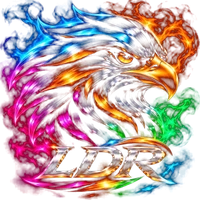
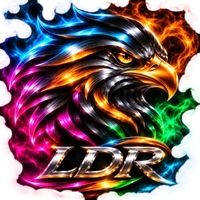
Aigles détourés : corps 100 % opaque, couleurs des fichiers d'origine ; manifest du site (écran d'ouverture sombre)
Claude-Session: https://claude.ai/code/session_01BaCEKBNoQAedFM9855Jhha

diff --git a/_collage/outils/detoure-aigles.py b/_collage/outils/detoure-aigles.py
@@ -1,0 +1,24 @@
+import sys, numpy as np
+from PIL import Image, ImageFilter, ImageDraw
+def _im(m): return Image.fromarray((m*255).astype(np.uint8))
+def detoure(im, T=42, r=7, feather=1.2):
+    """Fond noir enlevé, corps de l'aigle 100 % opaque (couleurs d'origine), lueurs en fondu."""
+    im=im.convert('RGB'); a=np.asarray(im).astype(np.float32)
+    v=a.max(axis=2); H,W=v.shape; s=W/560.0
+    bright=_im(v>T)
+    # fermeture arrondie : dilatation puis érosion par flou + seuil
+    d=_im(np.asarray(bright.filter(ImageFilter.GaussianBlur(r*s)))>0.10*255)
+    e=np.asarray(d.filter(ImageFilter.GaussianBlur(r*s)))>0.90*255
+    m=_im(e|(v>T))
+    # trous bouchés : on inonde l'extérieur depuis un bord noir de 1 px
+    pad=Image.new('L',(W+2,H+2),0); pad.paste(m,(1,1)); ImageDraw.floodfill(pad,(0,0),128)
+    body=np.asarray(pad)[1:-1,1:-1]!=128
+    # on ne garde que le grand morceau (l'aigle) ; les petites flammes isolées restent en lueur
+    ys,xs=np.nonzero(body); cy,cx=H/2,W/2; i=np.argmin((ys-cy)**2+(xs-cx)**2)
+    b=_im(body).point(lambda p:200 if p else 0); ImageDraw.floodfill(b,(int(xs[i]),int(ys[i])),255)
+    main=np.asarray(b)==255
+    Ab=np.asarray(_im(main).filter(ImageFilter.MinFilter(3)).filter(ImageFilter.GaussianBlur(feather*s))).astype(np.float32)/255
+    Ag=np.clip(v/255*1.15,0,1)
+    A=np.maximum(Ab,Ag)
+    rgb=np.where(A[...,None]>0.004, a/np.maximum(A[...,None],0.004), 0)
+    return Image.fromarray(np.dstack([np.clip(rgb,0,255),A*255]).astype(np.uint8),'RGBA'), Ab
